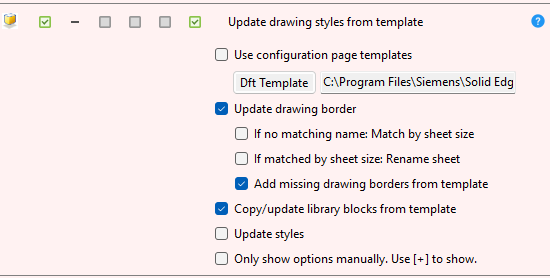
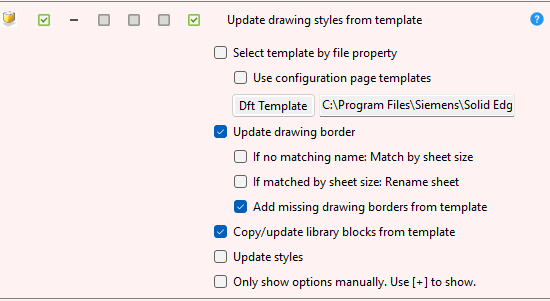
Draft template criteria

Changed region(s): [[0.0, 0.1439, 1.0, 1.0], [0.0, 0.0, 1.0, 0.1151]]

diff --git a/HelpTopics.md b/HelpTopics.md
@@ -1123,8 +1123,13 @@ Updates styles, background sheets, and/or library blocks from a template you spe
 ![UpdateDrawingStylesFromTemplate](My%20Project/media/task_update_drawing_styles_from_template.png)
 
 **Options**
-- **Dft Template:** Drawing that contains the desired styles and background sheets. To use the draft template defined on the **Configuration Tab -- Templates Page**, enable the option `Use configuration page templates.`  
-Another way to specify a draft template is to use an Expression.  Right-click the textbox and choose insert/edit expression.  See the [<ins>**Edit Properties Help Topic**</ins>](#edit-properties) for details on using them.  
+- **Select template by file property:** Tells the program to select different templates based on a property in the file.  
+- **Dft Template:** Drawing that contains the desired styles and background sheets. 
+  - To use the draft template defined on the **Configuration Tab -- Templates Page**, enable the option `Use configuration page templates.`  
+  - Another way to specify a draft template is to use an Expression.  Right-click the textbox and choose insert/edit expression.  See the [<ins>**Edit Properties Help Topic**</ins>](#edit-properties) for details on using them.  
+  - A third way is to enable the aforementioned `Select template by file property`.  In that case, a table is presented that holds the properties, values to match, and template names.  Right-click a row on the table to open the editor.  
+![UpdateDrawingStylesFromTemplate](My%20Project/media/task_update_drawing_styles_from_template_property_option.png)
+Choose the `property` with the button provided.  For flexibility, it supports property formulas, for example `%{System.Template} -- %{Custom.Process|R1}`.  The `value` field is plain text.  In the example, it might be `Normal.dft -- DIECAST`.  To specify a `default template`, in the case no match is found, set the last `value` in the table to `*` (asterisk).  Choose the `template` using the button provided.  
 - **Update Drawing Border:** Replace the drawing border in the file with one of the same name in the template. 
   - **If no matching name: Match by sheet size:** If no names match, this option checks for sheet height and width. If a match is found, that border is used as the replacement. 
   - **If matched by sheet size: Rename sheet:** If a size match is found, this option renames the background to match the template. 

diff --git a/README.md b/README.md
@@ -1123,8 +1123,13 @@ Updates styles, background sheets, and/or library blocks from a template you spe
 ![UpdateDrawingStylesFromTemplate](My%20Project/media/task_update_drawing_styles_from_template.png)
 
 **Options**
-- **Dft Template:** Drawing that contains the desired styles and background sheets. To use the draft template defined on the **Configuration Tab -- Templates Page**, enable the option `Use configuration page templates.`  
-Another way to specify a draft template is to use an Expression.  Right-click the textbox and choose insert/edit expression.  See the [<ins>**Edit Properties Help Topic**</ins>](#edit-properties) for details on using them.  
+- **Select template by file property:** Tells the program to select different templates based on a property in the file.  
+- **Dft Template:** Drawing that contains the desired styles and background sheets. 
+  - To use the draft template defined on the **Configuration Tab -- Templates Page**, enable the option `Use configuration page templates.`  
+  - Another way to specify a draft template is to use an Expression.  Right-click the textbox and choose insert/edit expression.  See the [<ins>**Edit Properties Help Topic**</ins>](#edit-properties) for details on using them.  
+  - A third way is to enable the aforementioned `Select template by file property`.  In that case, a table is presented that holds the properties, values to match, and template names.  Right-click a row on the table to open the editor.  
+![UpdateDrawingStylesFromTemplate](My%20Project/media/task_update_drawing_styles_from_template_property_option.png)
+Choose the `property` with the button provided.  For flexibility, it supports property formulas, for example `%{System.Template} -- %{Custom.Process|R1}`.  The `value` field is plain text.  In the example, it might be `Normal.dft -- DIECAST`.  To specify a `default template`, in the case no match is found, set the last `value` in the table to `*` (asterisk).  Choose the `template` using the button provided.  
 - **Update Drawing Border:** Replace the drawing border in the file with one of the same name in the template. 
   - **If no matching name: Match by sheet size:** If no names match, this option checks for sheet height and width. If a match is found, that border is used as the replacement. 
   - **If matched by sheet size: Rename sheet:** If a size match is found, this option renames the background to match the template. 

diff --git a/release_notes.md b/release_notes.md
@@ -15,13 +15,21 @@ Feel free to report bugs and/or ideas for improvement on the [<ins>**Solid Edge 
 
 ## V2026.3
 
+We'll get right to the updates, but first some exciting news  -- we have a repeat **Sponsor** and a new **Contributor!**  **.** sponsored a handy update to the `Update Drawing Styles from Template` command.  **@JBen79** (github) contributed a new feature to that command, and significantly expanded capabilities in `Update Drawing Views`.  Can't wait for you to see their handiwork!
+
+In less exciting news, and the reason this update follows so closely on the heels of the last one, is a bug in `Edit Properties`.  Using `Expressions` in V2026.2 added two trailing carriage returns to property text.  If you are affected, see below for a fix.
+
+Now, on to those updates...
+
 ### Update Drawing Styles from Template
 
 #### Select Template by Property
 
 Sponsored by **.**  Thank you!
 
-Added the ability to select the template based on a file property's value.  This can be handy if you require different templates based on part type, client, etc.
+Added the ability to select the template based on a file property's value.  This can be handy if you require different templates based on model type, client, etc.
+
+![UpdateDrawingStylesFromTemplate](My%20Project/media/task_update_drawing_styles_from_template_property_option.png)
 
 This can also be accomplished with an `Expression` in single-template mode.  However, if programming is not your thing, this is a simpler method with the same result.
 
